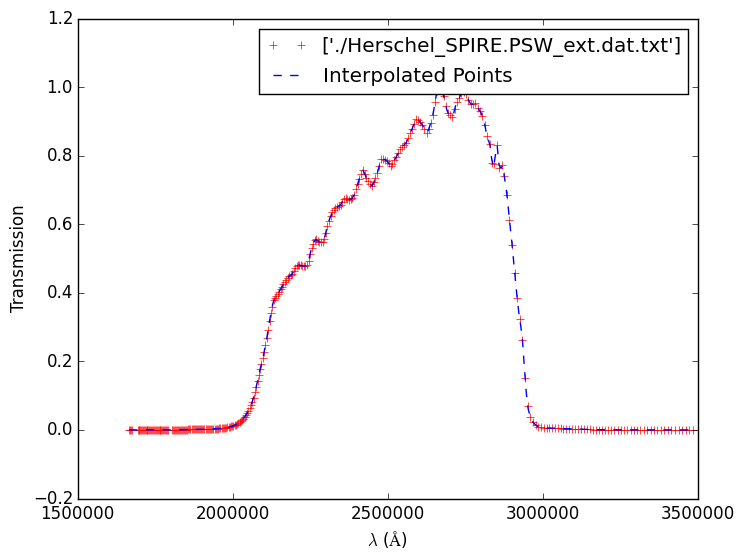
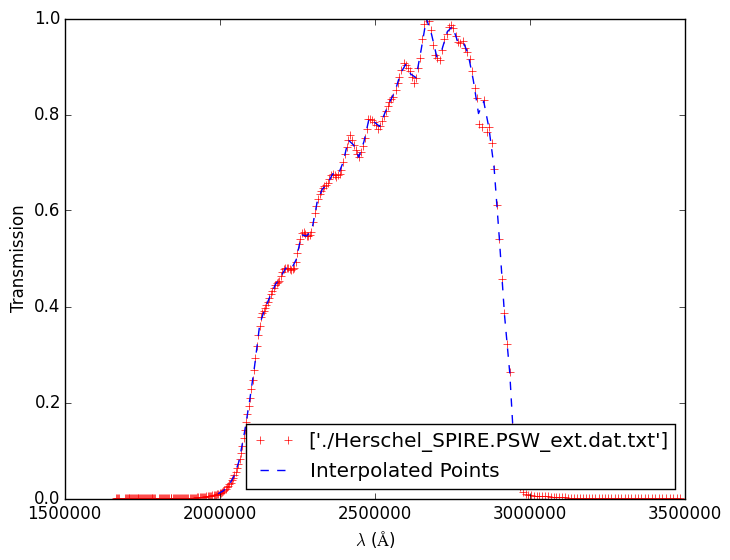
Transmission effects are now accounted for and the resultant plot is as should be imaged by SPIRE. This has yet to be applied to PMW and PLW, though PSW is fully functional

Changed region(s): [[0.0, 0.0, 0.9945, 1.0], [0.6932, 0.5464, 0.7233, 0.5768]]

diff --git a/Code/datafiles/vanilla/datafilegen.py b/Code/datafiles/vanilla/datafilegen.py
@@ -328,37 +328,61 @@ if files == ['./Herschel_SPIRE.PSW_ext.dat.txt']:
         spire_psw = f.readlines()
         print 'I am reading from \'Herschel_SPIRE.PSW_ext.dat.txt\' and have assigned its output to psw_band.\n'
 
-        # Because the content is not read in using proper formatting this splits each row into columns that allow the first column to be wavelength points for the passband and the second column to be the transmission coefficint at that wavelength
+        # Because the content is not read in using proper formatting this splits # each row into columns that allow the first column to be wavelength
+        # points for the passband and the second column to be the transmission
+        # coefficeint at that wavelength
         for row in spire_psw:
             spire.append(row.split())
+
+        # Determine the lower and upper bounds of the passband
+        # The data read in from the transmission has data for a +/- 50A window
+        # either side of the passband start and finish - this is the correct
+        # passband info
+        lower = 1994539.66
+        higher = 2985656.87
 
 elif files == ['./Herschel_SPIRE.PMW_ext.dat.txt']:
     with open('Herschel_SPIRE.PMW_ext.dat.txt') as f:
         spire_pmw = f.readlines()
         print 'I am reading from \'Herschel_SPIRE.PMW_ext.dat.txt\' and have assigned its output to pmw_band.\n'
 
-        # Because the content is not read in using proper formatting this splits each row into columns that allow the first column to be wavelength points for the passband and the second column to be the transmission coefficint at that wavelength
+        # Because the content is not read in using proper formatting this splits # each row into columns that allow the first column to be wavelength
+        # points for the passband and the second column to be the transmission
+        # coefficeint at that wavelength
         for row in spire_pmw:
             spire.append(row.split())
+
+        # Determine the lower and upper bounds of the passband
+        # The data read in from the transmission has data for a +/- 50A window
+        # either side of the passband start and finish - this is the correct
+        # passband info
+        lower = 2816949.09
+        higher = 4247548.25
 
 elif files == ['./Herschel_SPIRE.PLW_ext.dat.txt']:
     with open('Herschel_SPIRE.PLW_ext.dat.txt') as f:
         spire_plw = f.readlines()
         print 'I am reading from \'Herschel_SPIRE.PLW_ext.dat.txt\' and have assigned its output to plw_band.\n'
 
-        # Because the content is not read in using proper formatting this splits each row into columns that allow the first column to be wavelength points for the passband and the second column to be the transmission coefficint at that wavelength
+        # Because the content is not read in using proper formatting this splits # each row into columns that allow the first column to be wavelength
+        # points for the passband and the second column to be the transmission
+        # coefficeint at that wavelength
         for row in spire_plw:
             spire.append(row.split())
 
+        # Determine the lower and upper bounds of the passband
+        # The data read in from the transmission has data for a +/- 50A window
+        # either side of the passband start and finish - this is the correct
+        # passband info
+        lower = 3914345.93
+        higher = 6908139.18
+
+# Split the data (a 2 column ascii file) into the correct lists: 0th column is the wavelength and 1st column is the transmission
 for a in range(0,len(spire)):
     spire_wav.append(np.float64(spire[a][0]))
     spire_trans.append(np.float64(spire[a][1]))
 
-print 'The correct format data has now been assigned to spire with the wavelength component being in spire_wav and the transmission component being in spire_trans.\n'
-
-# Determine the lower and upper bounds of the passband
-lower = np.float64(spire[0][0])
-higher = np.float64(spire[-1][0])
+print 'The data has now been assigned to spire with the wavelength component being in spire_wav and the transmission component being in spire_trans.\n'
 
 # Determine the number of wavelength points in the passband
 nwav = len(spire)
@@ -385,7 +409,12 @@ wavelength_micron.close()
 # Write the file
 camera = open('camera_wavelength_micron.inp', 'w')
 
-print 'There will be', nwav, 'points between', lower, 'um and', higher, 'um.\n'
+# Write another file called transmission that will help with accounting for the optic transmissions when plotting the simulation
+trans = open('transmission.txt', 'w')
+
+points = input('How many wavelength points should be computed for camera_wavelength_micron.inp?\n')
+
+print 'There will be', points, 'points between', lower, 'um and', higher, 'um.\n'
 print ''
 
 # This determines whether the spacing is linear or logarithmic
@@ -396,7 +425,7 @@ if spire_wav[2] - spire_wav[1] != spire_wav[1] - spire_wav[0]:
     interp = interp1d(spire_wav, spire_trans, kind='cubic')
 
     # Generate a linear array of points to feed into it
-    linear_wav = np.linspace(lower,higher,nwav)
+    linear_wav = np.linspace(lower,higher,points)
 
     # Feed in and determine the new, linearly spaced transmission points
     interp_trans = interp(linear_wav)
@@ -413,18 +442,20 @@ if spire_wav[2] - spire_wav[1] != spire_wav[1] - spire_wav[0]:
     print 'Data will now be written to \'camera_wavelength_micron.inp\'\n'
 
     # Save the number of wavelength points
-    camera.write(str(nwav)+str('\n'))
+    camera.write(str(points)+str('\n'))
 
     # Writes wavelength points
     for q in range(0,len(linear_wav)):
         if q == len(linear_wav):
             camera.write(str(linear_wav[q]*10**-4))
+            trans.write(str(linear_wav[q]*10**-4)+str('    ')+str(interp_trans[q]))
         else:
             camera.write(str(linear_wav[q]*10**-4) + str('\n'))
+            trans.write(str(linear_wav[q]*10**-4)+str('    ')+str(interp_trans[q])+str('\n'))
 
 else:
     # Save the number of wavelength points
-    camera.write(str(nwav)+str('\n'))
+    camera.write(str(points)+str('\n'))
 
     # Writes wavelength points
     for q in range(0,len(spire)):
@@ -434,6 +465,7 @@ else:
             camera.write(str(spire[q][0]*10**-4) + str('\n'))
 
 camera.close()
+trans.close()
 
 '''
 ################################################################################

diff --git a/Code/simulations/workingsims/psw/sim_psw.py b/Code/simulations/workingsims/psw/sim_psw.py
@@ -13,7 +13,14 @@ import os
 # Import time tools
 import time
 
+# Import units
 from radmc3dPy.natconst import *
+
+# Import numpy
+import numpy as np
+
+# Import csv
+import csv
 
 ############################## Set up initial model ############################
 # Writes the default parameter file for the 2d sphere model
@@ -22,30 +29,91 @@ radmc3dPy.analyze.writeDefaultParfile('3d_cloud')
 # Setup the dust module with the ascii input files
 radmc3dPy.setup.problemSetupDust('3d_cloud', binary=False, tstar='1.0*ts', rstar='1.0*rs', nx=128, ny=128, nz=128, xbound=[-10000*au,10000*au], ybound=[-10000*au,10000*au], zbound=[-10000*au,10000*au], nphot=2000000.)
 
-########################### Run Monte-Carlo simulation ########################
+############################ Run Monte-Carlo simulation ########################
 
 # Interface with operating system to run the Monte-Carlo sim (and allowing the
 # code to use wavelength_micron.inp)
 os.system('radmc3d image loadlambda')
 
-############################# Plot the resulting data ##########################
+########################## Initailise the resulting data #######################
 
 # Define wavelength ranges of spire to plot (PSW, PMW and PLW)
 #spire = [[196.5351,298.1259],[277.3117,423.4707],[386.6218,679.3126]]
 psw_ext = [199.4540,298.5657]
 
 # Plot image for first SPIRE wavelength band (PSW)
-radmc3dPy.image.makeImage(npix=100000, sizeau=20000, incl=90., lambdarange=psw_ext, nlam=60)
+#radmc3dPy.image.makeImage(npix=100000, sizeau=20000, incl=90., lambdarange=psw_ext, nlam=60)
+
+########################### Account for transmission ###########################
+
+# Initialise the data from the ray trace
+# This is stored in the class radmc3dImage
+imag = radmc3dPy.image.readImage('image.out')
+
+# Read in the specially created file holding the interpolated transmissions
+trans_data = np.loadtxt('transmission.txt')
+
+# Write a new image.out file called image_trans.out that will contain all of the new intensity information
+with open('image_trans.out', 'w') as f:
+    #image_trans = open('image_trans.out', 'w')
+    image_trans = csv.writer(f, delimiter=' ')
+
+    # Begin writing of the file by writing the format number
+    #image_trans.writerows(str(1)+str('\n'))
+    image_trans.writerow([1])
+
+    # Write the number of pixels in x and y dimensions
+    #image_trans.write("%.f" % imag.nx)
+    #image_trans.write(" %.f \n" % imag.ny)
+    image_trans.writerow([imag.nx, imag.ny])
+
+    # Write the number of wavelength points
+    #image_trans.write(str('          ')+str(imag.nwav)+str('\n'))
+    #image_trans.writerow([imag.nwav])
+    image_trans.writerow([1])
+
+    # Write the pixel sizes
+    #image_trans.write("%.f" % imag.sizepix_x)
+    #image_trans.write(" %.f \n" % imag.sizepix_y)
+    image_trans.writerow([imag.sizepix_x, imag.sizepix_y])
+
+    # Because the image is a composite of all wavelengths, only write the average of the wavelength points
+    avwav = np.mean(imag.wav)
+    image_trans.writerow(["%.15f" % avwav])
+    # Writes a blank line to seperate the wavelength points from the intensity points
+    image_trans.writerow([])
+
+    # Begin computing transmission weighted sum
+    # This is to be achieved by looping through each pixel in the image and multiplying by each transmission coefficient at that wavelength. This is then summed along all wavelengths to give a 'composite' image
+
+    # Declare a list to store the variables
+    store = []
+    summation = []
+
+    for i in range(0, imag.nx):
+        for j in range(0, imag.ny):
+            for k in range(0, imag.nwav):
+                #if i == 0. and j == 0. and k == 0.:
+                    #image_trans.write('  \n')
+                store.append(np.float64(imag.image[i][j][k]*trans_data[k][1]))
+            summation.append(np.float64(np.sum(store)))
+            #image_trans.write(str(np.sum(store))+str('\n'))
+            store = []
+
+    image_trans.writerows(zip(np.float64(summation)))
+
+# Close the file for memory purposes
+#image_trans.close()
+
+########################## Plot the resulting data #######################
 
 # Initialise the image
-imag = radmc3dPy.image.readImage()
+imag_trans = radmc3dPy.image.readImage('image_trans.out', binary=False)
 
 # Plot the image in a matplotlib figure (ifreq is the index of the lambdarange to plot)
-radmc3dPy.image.plotImage(imag, arcsec=False, au=True, dpc=150., log=True)
+radmc3dPy.image.plotImage(imag_trans, arcsec=False, au=True, dpc=150., log=True)
 
 print '\n######################################################################'
 print 'Please run the command \"viewimage\" in the Terminal at this point to'
 print 'start the GUI image viewer'
 print '########################################################################'
-
-############################# Misc. print statements ###########################
